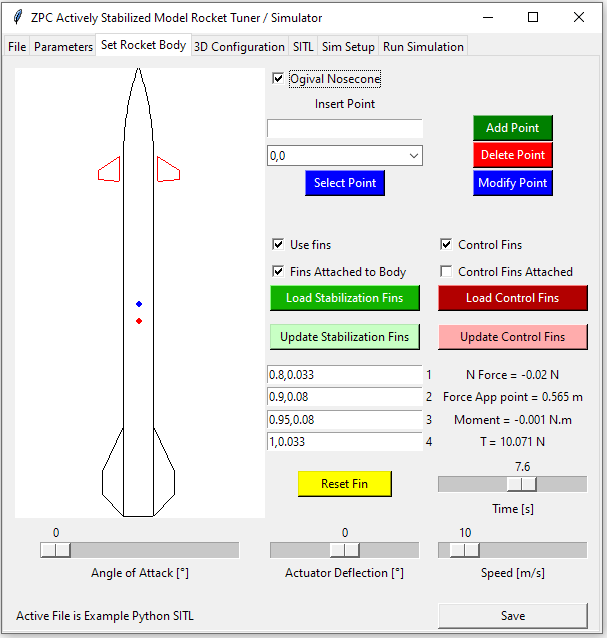
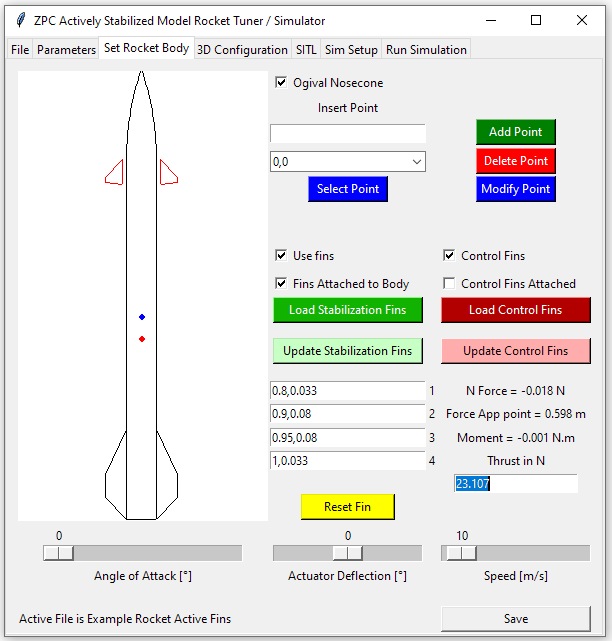
Mass and Iy vary with time

diff --git a/zpc_pid_simulator.py b/zpc_pid_simulator.py
@@ -254,27 +254,34 @@ def get_data_savefile():
 
 def update_all_parameters(parameters,conf_3d,conf_controller,conf_sitl, rocket_dim):
     global thrust, burnout_time, thrust_curve, max_thrust, average_thrust
-    global m, Iy, d, xcg, xcg_liftoff, xcg_burnout, xt, L, nosecone_length, CA0
+    global m, m_liftoff, m_burnout, Iy, Iy_liftoff, Iy_burnout, d, xcg
+    global xcg_liftoff, xcg_burnout, xt
     global k1, k2, k3, Actuator_max, Actuator_reduction, u_initial_offset
     global wind, wind_distribution, launchrod_lenght, theta, wind_total
 
-    m = parameters[1]
-    Iy = parameters[2]
-    xcg_liftoff = parameters[3]
-    xcg_burnout = parameters[4]
-    xt = parameters[5]
-    servo_definition = parameters[6]
-    Actuator_max = parameters[7] * DEG2RAD
-    Actuator_reduction = parameters[8]
-    u_initial_offset = parameters[9] * DEG2RAD
-    Actuator_weight_compensation = parameters[10]
-    wind = parameters[11]
-    wind_distribution = parameters[12]
-    launchrod_lenght = parameters[13]
-    Q_d.f = parameters[14] * DEG2RAD
+    m_liftoff = parameters[1]
+    m_burnout = parameters[2]
+    Iy_burnout = parameters[3]
+    Iy_liftoff = parameters[4]
+    xcg_liftoff = parameters[5]
+    xcg_burnout = parameters[6]
+    xt = parameters[7]
+    servo_definition = parameters[8]
+    Actuator_max = parameters[9] * DEG2RAD
+    Actuator_reduction = parameters[10]
+    u_initial_offset = parameters[11] * DEG2RAD
+    Actuator_weight_compensation = parameters[12]
+    wind = parameters[13]
+    wind_distribution = parameters[14]
+    launchrod_lenght = parameters[15]
+    Q_d.f = parameters[16] * DEG2RAD
     theta = Q_d.f
     wind_total = wind
+    m = m_liftoff
+    Iy = Iy_liftoff
     xcg = xcg_liftoff
+    rocket_mass_parameters = [m_liftoff, m_burnout, Iy_burnout, Iy_liftoff,
+                              xcg_liftoff, xcg_burnout]
 
     ##
     global toggle_3d, camera_shake_toggle, slow_mo, force_scale, hide_forces
@@ -293,7 +300,7 @@ def update_all_parameters(parameters,conf_3d,conf_controller,conf_sitl, rocket_d
     gui.savefile.read_motor_data(gui.param_file_tab.combobox[0].get())
     rocket.set_motor(gui.savefile.get_motor_data())
     burnout_time = rocket.burnout_time()
-    rocket.update_rocket(gui.draw_rocket_tab.get_configuration_destringed(), xcg_liftoff, xcg_burnout)
+    rocket.update_rocket(gui.draw_rocket_tab.get_configuration_destringed(), rocket_mass_parameters)
     S = rocket.reference_area
     d = rocket.max_diam
 
@@ -483,7 +490,7 @@ def update_parameters():
     global i
     global aoa
     global wind
-    global thrust,t_launch, xcg
+    global thrust,t_launch, xcg, m, Iy
     global out,timer_disturbance,timer_U,U2,q_wind
     global cm_xcg, ca, S
     global actuator_angle
@@ -508,7 +515,7 @@ def update_parameters():
     v_loc_tot = [v_loc[0]-wind_loc[0], v_loc[1]-wind_loc[1]]
     aoa = calculate_aoa(v_loc_tot)
     thrust = rocket.get_thrust(t, t_launch)
-    xcg = rocket.get_xcg(t, t_launch)
+    m, Iy, xcg = rocket.get_mass_parameters(t, t_launch)
     S = rocket.reference_area
     v_modulus = np.sqrt(v_loc_tot[0]**2 + v_loc_tot[1]**2)
     if rocket.use_fins_control is True:
@@ -752,9 +759,13 @@ def check_which_plot(s):
         return acc_glob[1]
     if s == "Angle of Atack":
         return aoa * RAD2DEG
-    if s == "Cp Position":
+    if s == "CP Position":
         return xa
-    if s == "Cg Position":
+    if s == "Mass":
+        return m
+    if s == "Iy":
+        return Iy
+    if s == "CG Position":
         return xcg
     if s == "Normal Force Coefficient":
         return cn

diff --git a/gui_functions.py b/gui_functions.py
@@ -566,7 +566,7 @@ class TabWithCanvas(Tab):
         self.active_point = 0
         self.active_point_fins = 0
         self.flag_hollow_body = False
-        self.aoa = 0.01
+        self.aoa = 0.00000001
         self.aoa_ctrl_fin = 0
         self.tvc_angle = 0
         self.current_motor = ""
@@ -838,12 +838,12 @@ class TabWithCanvas(Tab):
         # Creates a point where the CP is located
         # the slider can move it by modifying the aoa
         f = point_diameter / 2
-        self.xcg_point = float(gui_setup.param_file_tab.entry[2].get())
-        self.xcg_burnout = float(gui_setup.param_file_tab.entry[3].get())
+        mass_parameters = [0]*6
+        for i in range(6):
+            mass_parameters[i] = float(gui_setup.param_file_tab.entry[i].get())
         self._update_scale_limits()
-        self.rocket.update_rocket(self.get_configuration_destringed(), self.xcg_point, self.xcg_burnout)
+        self.rocket.update_rocket(self.get_configuration_destringed(), mass_parameters)
         v = self.transform_AoA_2_v(self.aoa) * self.velocity
-
         cn, cm, ca, cp_point = self.rocket.calculate_aero_coef(v_loc_tot=v,
                                                                actuator_angle=self.aoa_ctrl_fin)
         self.normal_force, self.force_app_point = self._calculate_total_cn_cp(cn, cp_point)
@@ -864,7 +864,7 @@ class TabWithCanvas(Tab):
         return v
 
     def _update_scale_limits(self):
-        max_actuator_angle = gui_setup.param_file_tab.get_configuration_destringed()[7]
+        max_actuator_angle = gui_setup.param_file_tab.get_configuration_destringed()[9]
         if max_actuator_angle == "":
             max_actuator_angle = 10
         self.scale_act_angle.config(from_=-max_actuator_angle,
@@ -876,7 +876,7 @@ class TabWithCanvas(Tab):
         q = 0.5 * 1.225 * self.velocity**2
         aero_force = q * self.rocket.area_ref * cn
         thrust = self._get_motor_data()
-        xt = float(gui_setup.param_file_tab.entry[4].get())
+        xt = float(gui_setup.param_file_tab.entry[6].get())
         normal_force = thrust*np.sin(self.tvc_angle) + aero_force
         force_app_point = (aero_force*cp_point + thrust*np.sin(self.tvc_angle) * xt) / normal_force
         return normal_force, force_app_point

diff --git a/files.py b/files.py
@@ -66,7 +66,9 @@ class SaveFile:
     """
 
     def __init__(self):
-        self.parameter_names = ["Motor[N] = ", "Mass [kg] = ", "Iy [kg*m] = ",
+        self.parameter_names = ["Motor[N] = ",
+                                "Mass Liftoff [kg] = ", "Mass Burnout [kg] = ",
+                                "Iy Liftoff [kg*m] = ", "Iy Burnout [kg*m] = ",
                                 "Xcg Liftoff [m] = ","Xcg Burnout [m] = ",
                                 "Xt [m] = ", "Servo definition [º] = ",
                                 "Max Actuator Angle [º] = ", "Actuator Reduction = ",
@@ -208,8 +210,9 @@ class SaveFile:
         None.
         """
         self.update_name(n)
-        self.parameters = ["Estes_D12.csv", '0.451', '0.0662', '0.55', "0.51","0.85",
-                           '1', '10', '5', '2',"2.1", '2', '0.1', "0", "0"]
+        self.parameters = ["Estes_D12.csv", '0.451', '0.351', '0.0662', '0.0601',
+                           '0.55', "0.51","0.85", '1', '10', '5', '2',"2.1",
+                           '2', '0.1', "0", "0"]
         self.conf_3d = ['True', 'False',"False","False","Fixed", '3', '0.2', "0.75"]
         self.conf_controller = ['False', 'True', 'Step [º]', '0.4', '0',
                                 '0.136', '1', '0', '30','20',"0.5","0", '0.02',
@@ -352,11 +355,17 @@ class SaveFile:
             print("Save updated to v2.0")
 
     def check_and_correct_v20_save(self):
-        if self.check_file("Xcg [m]", "Xt [m]"):
+        if self.check_file("Mass [kg]", "Iy"):
             for line in fileinput.input(".\\saves\\"+self.name+".txt", inplace=1):
-                if line.startswith("Xcg"):
+                if line.startswith("Mass"):
+                    print("Mass Liftoff [kg] = 1")
+                    print("Mass Burnout [kg] = 0.8")
+                    print("Iy Liftoff [kg*m^2] = 0.0662")
+                    print("Iy Burnout [kg*m^2] = 0.0562")
                     print("Xcg Liftoff [m] = 0.55")
                     print("Xcg Burnout [m] = 0.51")
+                elif line.startswith("Iy") or line.startswith("Xcg"):
+                    pass
                 else:
                     print(line, end ='')
 

diff --git a/rocket_functions.py b/rocket_functions.py
@@ -400,7 +400,7 @@ class Rocket:
         self.passive_cn = 0
         self.t_burnout = 5
 
-    def update_rocket(self, l0, xcg_liftoff, xcg_burnout):
+    def update_rocket(self, l0, mass_param):
         """
         Update the Rocket instance with the data in l0 and the cg position.
 
@@ -420,9 +420,13 @@ class Rocket:
         self.use_fins = l[1]
         self.fins_attached = [l[2], l[4]]
         self.use_fins_control = l[3]
-        self.xcg_liftoff = xcg_liftoff
-        self.xcg_burnout = xcg_burnout
-        self.xcg = xcg_liftoff
+        self.m_liftoff = mass_param[0]
+        self.m_burnout = mass_param[1]
+        self.Iy_liftoff = mass_param[2]
+        self.Iy_burnout = mass_param[3]
+        self.xcg_liftoff = mass_param[4]
+        self.xcg_burnout = mass_param[5]
+        self.xcg = self.xcg_liftoff
         self._update_rocket_dim(l[5])
         # In case one fin is not set up
         zero_fin = [[0.00001,0.0000],[0.0001,0.0001],[0.0002,0.0001],[0.0002,0.0000]]
@@ -922,6 +926,20 @@ class Rocket:
         """
         return self.motor[0][-1]
 
+    def get_mass(self, t, t_launch):
+        x = t - t_launch
+        yp = [self.m_liftoff, self.m_burnout]
+        xp = [0, self.t_burnout]
+        self.m = np.interp(x, xp, yp)
+        return float(self.m)
+
+    def get_Iy(self, t, t_launch):
+        x = t - t_launch
+        yp = [self.Iy_liftoff, self.Iy_burnout]
+        xp = [0, self.t_burnout]
+        self.Iy = np.interp(x, xp, yp)
+        return float(self.Iy)
+
     def get_xcg(self, t, t_launch):
         """
         Input the current time and the time at which the motor ignited
@@ -945,6 +963,11 @@ class Rocket:
         self.xcg = np.interp(x, xp, yp)
         return float(self.xcg)
 
+    def get_mass_parameters(self, t, t_launch):
+        m = self.get_mass(t, t_launch)
+        Iy = self.get_Iy(t, t_launch)
+        xcg = self.get_xcg(t, t_launch)
+        return m, Iy, xcg
 
     def reset_variables(self):
         """Resets some variables of the rocket."""

diff --git a/gui_setup.py b/gui_setup.py
@@ -179,8 +179,9 @@ def create_parameters_tab(notebook):
     combobox_options = [files.get_motor_names()]
     names_combobox = ["Motor = "]
     param_file_tab.create_combobox(combobox_options,names_combobox, 1, 1)
-    names_entry = ["Mass [kg] = ","Iy [kg*m**2] = ", "Xcg Liftoff [m] = ",
-                   "Xcg Burnout [m] = ","Xt [m] = ",
+    names_entry = ["Mass Liftoff [kg] = ", "Mass Burnout [kg] = ",
+                   "Iy Liftoff [kg*m^2] = ", "Iy Burnout [kg*m^2] = ",
+                   "Xcg Liftoff [m] = ", "Xcg Burnout [m] = ","Xt [m] = ",
                    "Servo Definition [º] = ", "Max Actuator Angle [º] = ",
                    "Actuator Reduction = ","Initial Misalignment [º] = ",
                    "Servo Velocity Compensation", "Wind [m/s] = ","Wind Gust [m/s] = ",
@@ -195,8 +196,8 @@ def create_parameters_tab(notebook):
 
     save_file_button = tk.Button(param_file_tab.tab, text="Save",
                                   command=button_save_parameters, width=20)
-    h = 36
-    save_file_button.grid(row=h, column=14)
+    h = 34
+    save_file_button.grid(row=h, column=12)
     param_file_tab.create_active_file_label(h, 0)
     param_file_tab.configure()
 
@@ -546,8 +547,8 @@ def create_run_sim_tab(notebook):
                                  "Local Velocity Z", "Global Velocity X",
                                  "Global Velocity Z", "Total Velocity",
                                  "Local Acc X",  "Local Acc Z", "Global Acc X",
-                                 "Global Acc Z", "Angle of Atack","Cp Position",
-                                 "Cg Position",
+                                 "Global Acc Z", "Angle of Atack","CP Position",
+                                 "Mass", "Iy", "CG Position",
                                  "Normal Force Coefficient", "Axial Force Coefficient",
                                  "Moment Coefficient",
                                  "Altitude","Distance Downrange",

diff --git a/README.md b/README.md
@@ -34,7 +34,7 @@ One can create a new file or open an existing one. Once a file is open, a copy c
 One must fill the required parameters of the rocket. New motors can be added in the *motors* folder. 
 - *Iy* is the pitching moment of inertia.
   - Speed is your enemy, therefore is recommended to use the lowest mass and inertia.
-- *Xcg Liftoff/Burnout* are the position of the wet and dry Center of Gravity.
+- *Xcg* is the position of the Center of Gravity.
 - *Xt* is the position of the TVC mount. If one is using fins, the program automatically calculates the force application point.
   - All distances are measured from the tip of the nose cone.
 - The *Servo Definition* is the minimum angle it can rotate.
@@ -93,13 +93,10 @@ One can activate the 3D Graphics by clicking the checkbox. **IT REQUIRES VPYTHON
   
 ### Software in the Loop
 ![](/Images/Readme/Screenshot_5.png)
-
-#### Python SITL
-In case of using the Python SITL module, refer to the example. One can create functions, classes, modules, etc., or modify the code at will. The objective was to make it as similar as possible to an Arduino, but there are some differences, specially with the global variables having the prefix self. Only the Python SITL module is compatible with GNSS and sample times.
   
 #### On what boards can I use this software?
 It was only tested on an Arduino Nano clone, so compatibility is not ensured.  
-Even on the Arduino, the program did not work properly with program runtimes times smaller than 5 milliseconds.
+Even on the Arduino, the program did not work properly with sample times smaller than 5 milliseconds.
 
 #### How to set up the serial communication in Python.
 To use the Software in the Loop function, one has to set the *Port* to the one in which the board is connected, and the *Baudrate* to the one set in the Arduino program.  
@@ -135,6 +132,9 @@ Replace your *servo.write()* for:
 ![](/Images/Readme/Screenshot_12.png)  
 Replace *servo_command* for your servo variable (in º).    
 The parachute variable is an int, it's normally 0 and one must make it 1 when the parachute would deploy. 
+
+#### Python SITL
+In case of using the Python SITL module, refer to the example. The objective was to make it as similar as possible to an Arduino, but there are some differences, specially with the global variables having the prefix self. Only the Python SITL module is compatible with GNSS and sample times.
 
 **REMEMBER THAT THE DATA IS IN DEGREES, G'S AND M, AND YOU HAVE TO SEND THE SERVO COMMAND IN DEGREES AND THE PARACHUTE DEPLOYMENT SIGNAL AS 0 OR 1.**  
 
